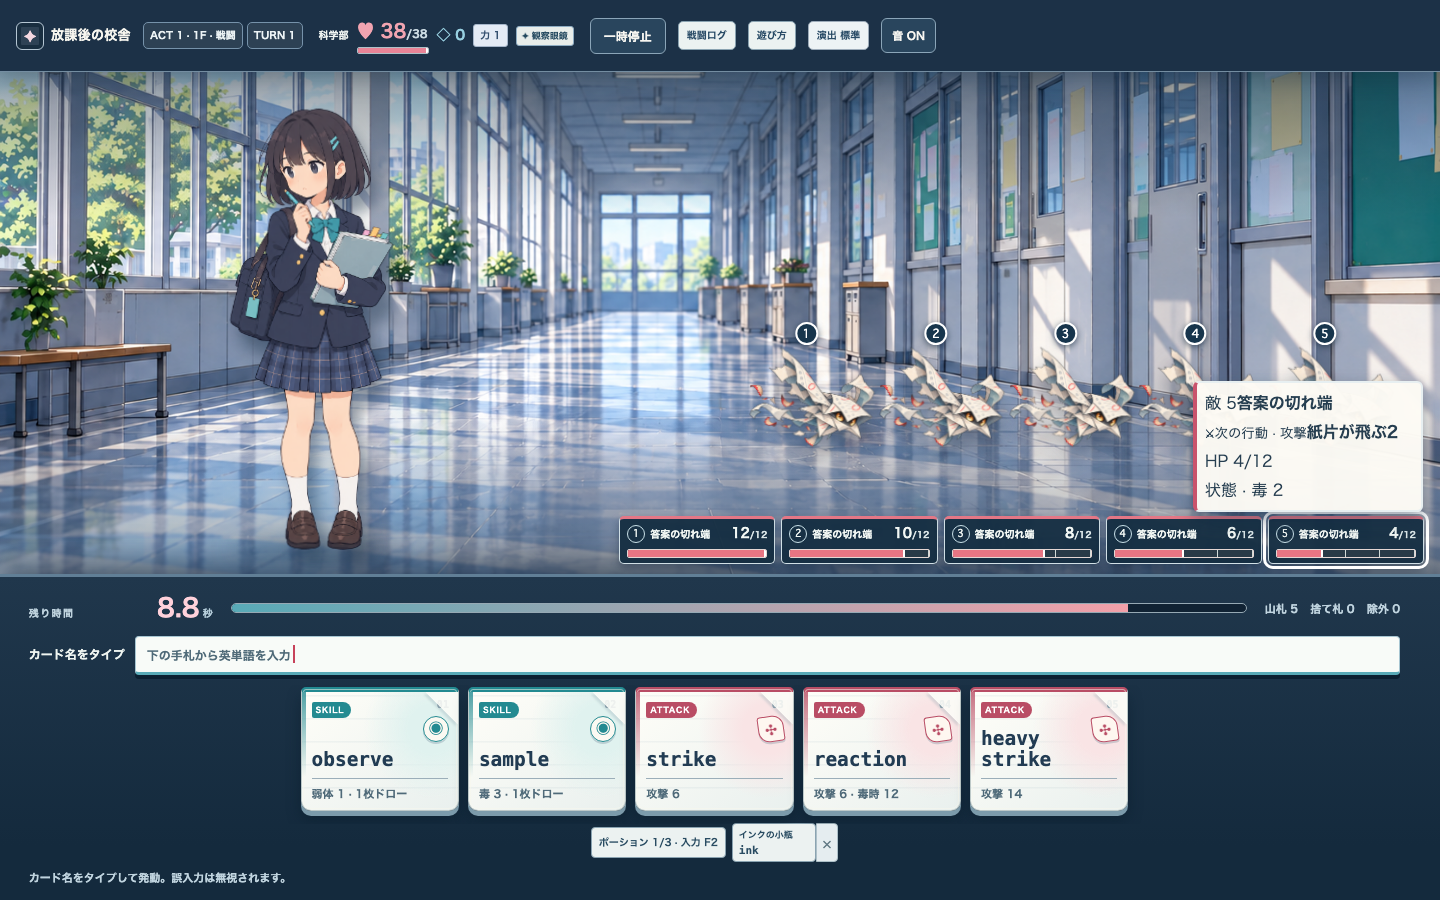
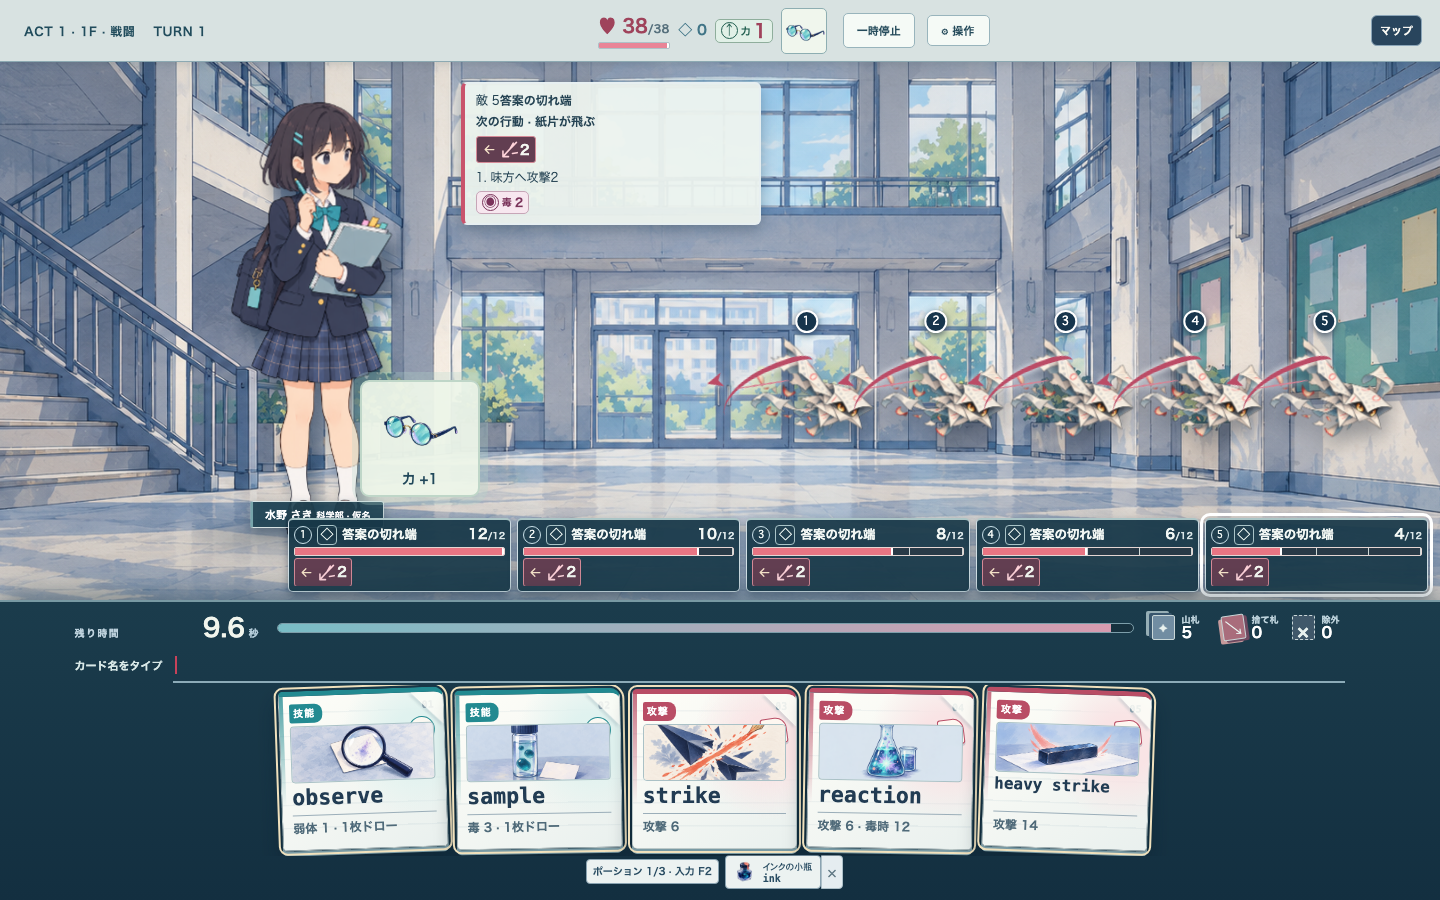
docs: record combined five-enemy and ally-layout review

diff --git a/docs/qa/issue319-integration.md b/docs/qa/issue319-integration.md
@@ -25,4 +25,6 @@ The combined tree also passed ten targeted 1440/1024 viewport cases for treasure
 
 Combined screenshots are in the task `outputs/` directory under `issue319-integrated-` for map, battle, reward, treasure, shop, rest, event, victory and loss at 1440/1024. The original `issue286-live-*` and `issue268-loss-real-*` capture paths in this branch were refreshed by the integrated test run; owning branches were not altered. The viewport evidence still shows blank illustration slots in some initial hand cards and placeholder text/geometry in several location interactions. Candidate art is not approved. First-time understanding, physical iPad and final visual quality remain unverified.
 
+The same code also passed the focused five-enemy interaction case at 1440; `outputs/issue319-integrated-five-enemies-1440.png` shows the repeated test enemy and visible target HP/Intent. `outputs/issue319-integrated-three-allies-{1440,1024}.png` shows a three-ally layout preview: slots two and three are explicit placeholders without battle rules or character art, so this is layout evidence only. The associated live `issue170-five-enemies-v6-1440x900.png` capture was refreshed on this combined branch. These captures do not establish first-time readability or a complete companion system.
+
 Later candidates #334 (four location props; held because its CI found a real Act 2 loss), #320 (character rig and effect propagation), #335 (additional card art) and #324 (one enemy action painting) are outside this validated core HEAD. They require a new combined-tree gate if included.
